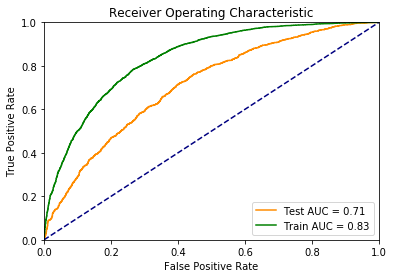
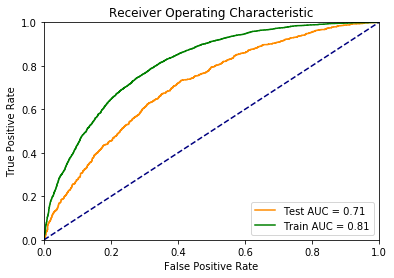
Finalised Logistic Regression

diff --git a/logistic_regression.py b/logistic_regression.py
@@ -13,7 +13,7 @@ from sklearn import metrics
 from sklearn.metrics import roc_curve, auc
 
 #Import statistical features
-dataset = pd.read_csv("features.csv", ',')
+dataset = pd.read_csv("features_3000words.csv", ',')
 
 # Separate Y column
 gender = dataset['gender']
@@ -27,7 +27,7 @@ X_train, X_test = train_test_split(features, test_size = 0.25, random_state = 0)
 
 # GridSearch
 gridModel = LogisticRegression()
-trim_parameter_listL1 = [{'C': [0.01, 0.1, 1, 10, 100, 1000], "penalty":["l1"], 'solver' : ['liblinear','saga'], 'max_iter': [250]}]
+trim_parameter_listL1 = [{'C': [0.1, 0.2, 0.3, 0.4, 0.5, 1], "penalty":["l1", "l2"], 'solver' : ['liblinear'], 'max_iter': [100]}]
 trim_parameter_listL2 = [{'C': [0.01, 0.1, 1, 10, 100, 1000], "penalty":["l2"], 'solver' : ['newton-cg','lbfgs','sag'], 'max_iter': [500]}]
 
 gridsearch = model_selection.GridSearchCV(gridModel, trim_parameter_listL1)
@@ -35,8 +35,8 @@ gridsearch.fit(X_train, y_train)
 print(gridsearch.best_params_)
 print(gridsearch.score)
 
-# Model
-model = LogisticRegression(C = 0.1, penalty = "l2", solver = ' ' )
+# Model (with best params)
+model = LogisticRegression(C = 0.2, penalty = "l2", solver = 'liblinear' , max_iter = 100)
 model.fit(X_train, y_train) # training the model
 print(model.score(X_train, y_train))
 Y_pred = model.predict(X_test)
@@ -55,7 +55,7 @@ gridsearch.fit(X_train, y_train)
 print(gridsearch.best_params_)	
 print(gridsearch.score)
 
-model = svm.SVC(kernel = 'sigmoid', C = 0.1, gamma = 1000 )
+model = svm.SVC()
 model.fit(X_train, y_train) # training the model
 print(model.score(X_train, y_train))
 Y_pred = model.predict(X_test)
